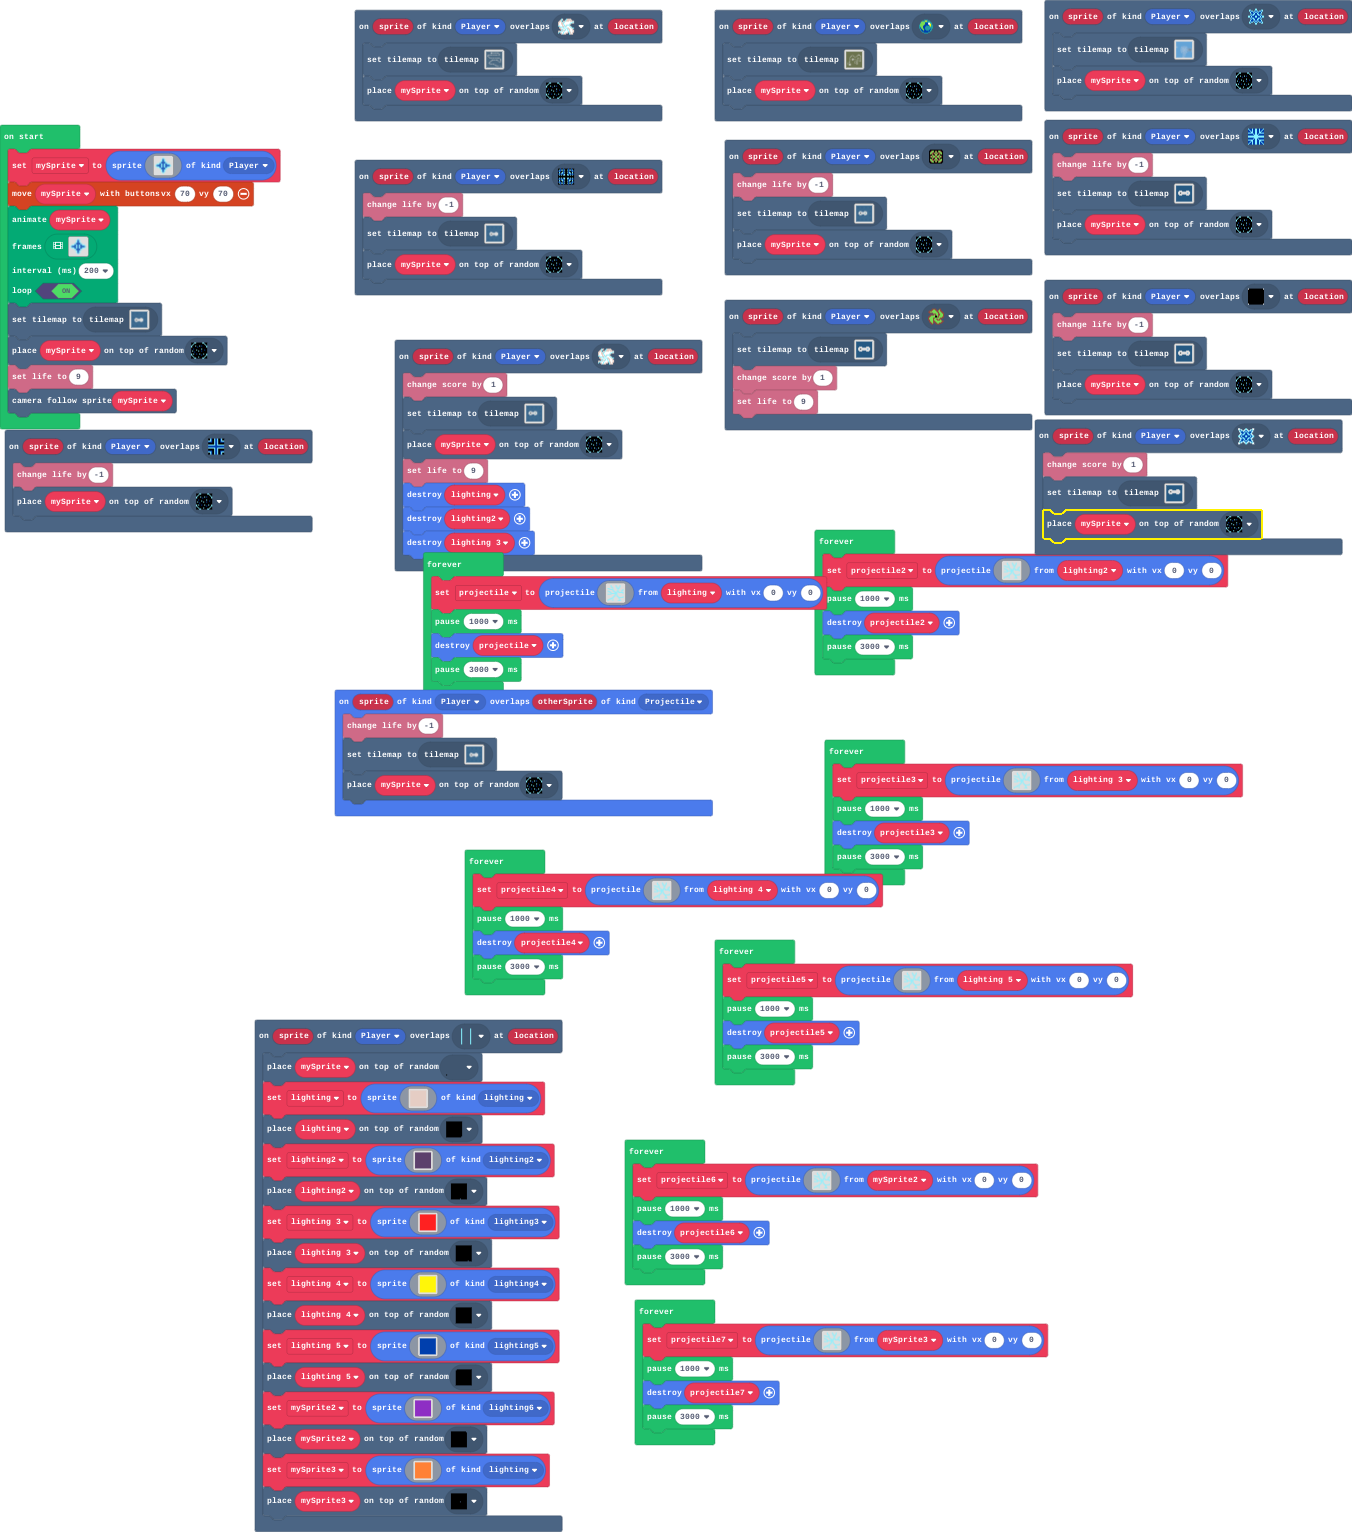
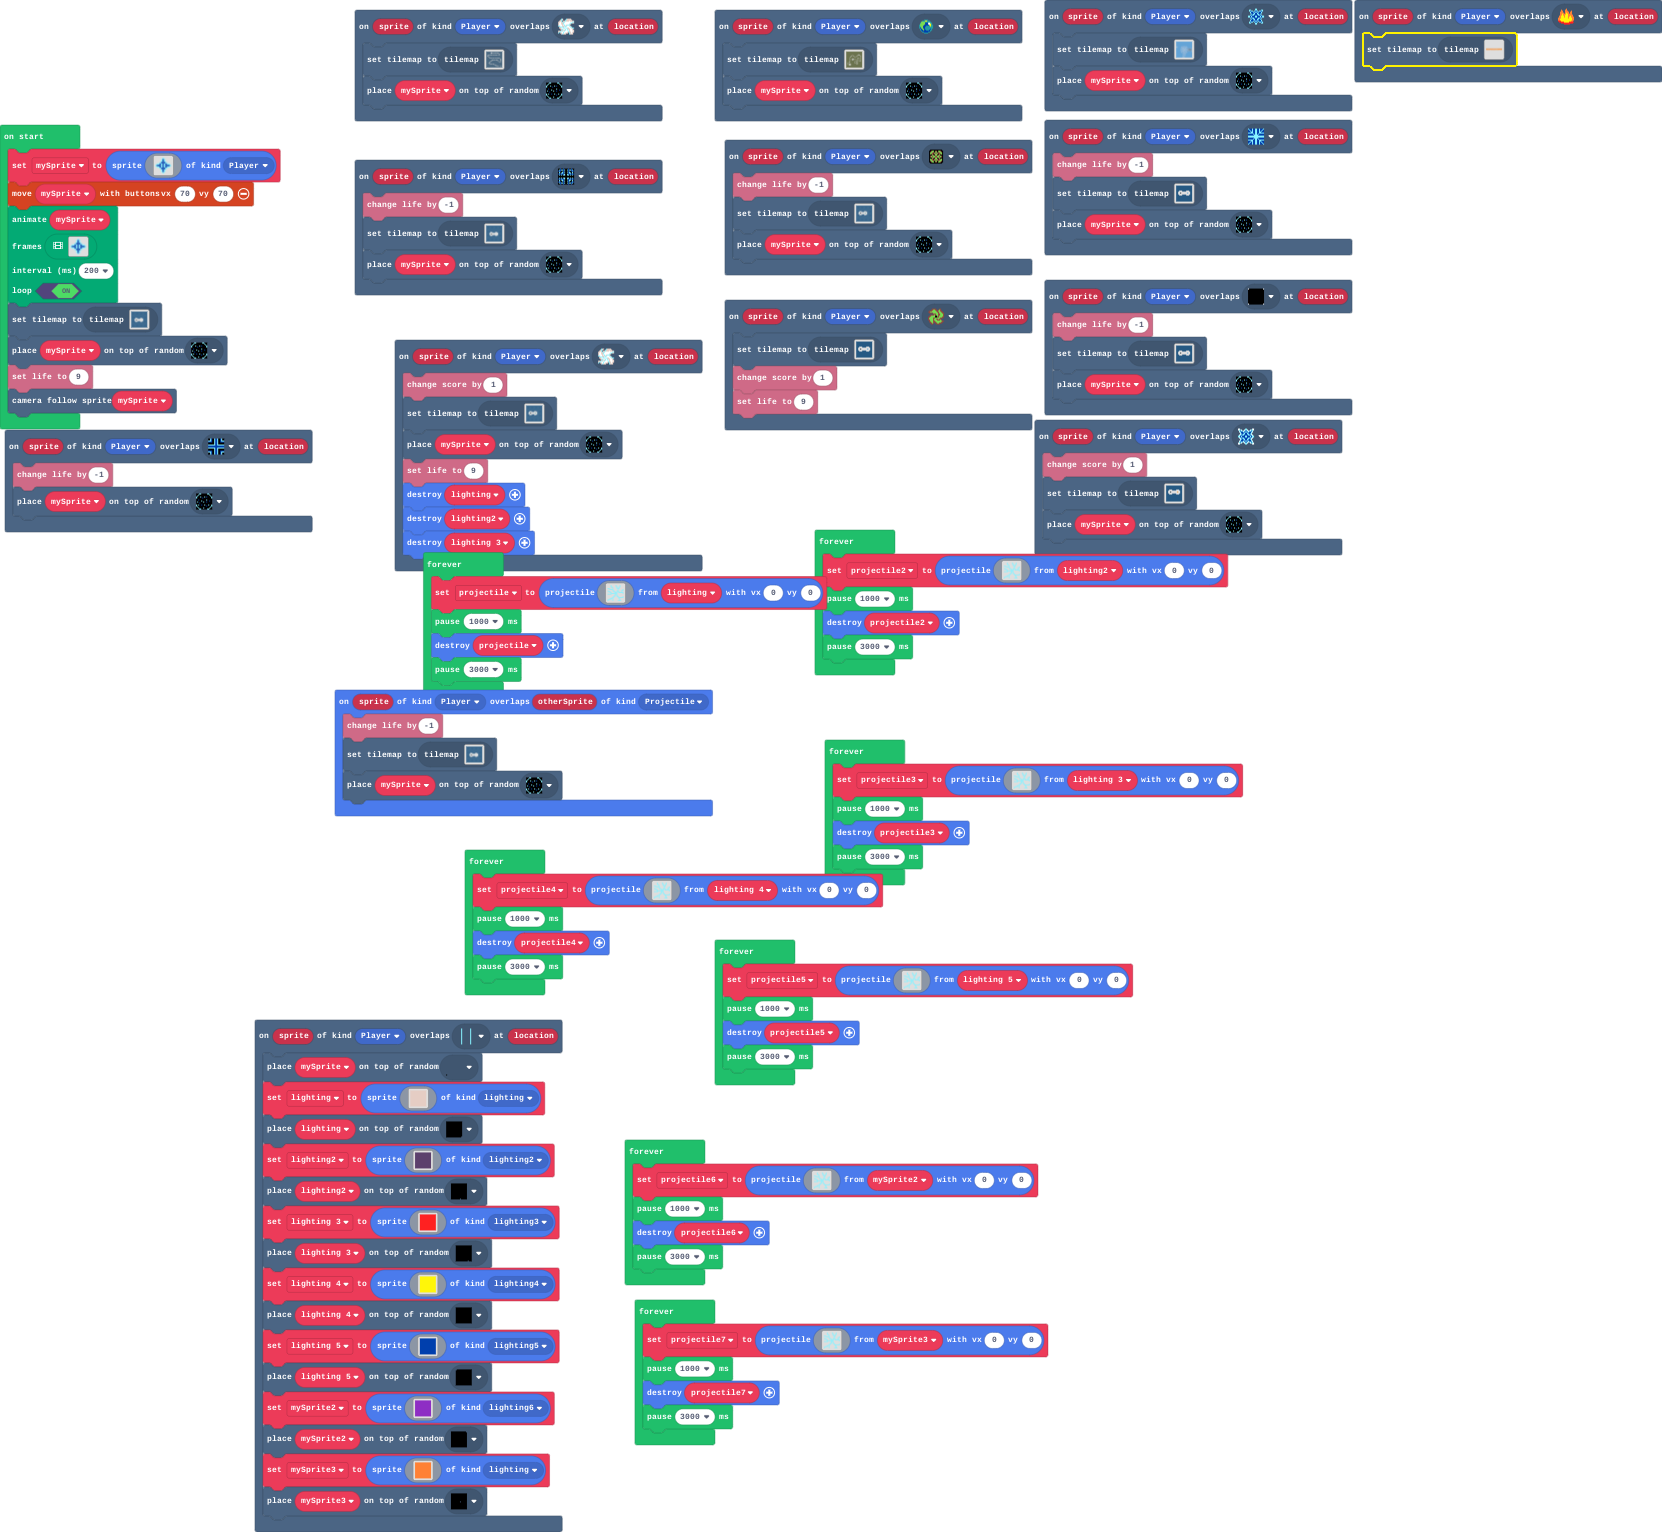
Update main.blocks, main.ts, tilemap.g.jres, tilemap.g.ts

diff --git a/tilemap.g.ts b/tilemap.g.ts
@@ -46,6 +46,14 @@ namespace myTiles {
     export const tile21 = image.ofBuffer(hex``);
     //% fixedInstance jres blockIdentity=images._tile
     export const tile22 = image.ofBuffer(hex``);
+    //% fixedInstance jres blockIdentity=images._tile
+    export const tile24 = image.ofBuffer(hex``);
+    //% fixedInstance jres blockIdentity=images._tile
+    export const tile25 = image.ofBuffer(hex``);
+    //% fixedInstance jres blockIdentity=images._tile
+    export const tile23 = image.ofBuffer(hex``);
+    //% fixedInstance jres blockIdentity=images._tile
+    export const tile26 = image.ofBuffer(hex``);
 
     helpers._registerFactory("tilemap", function(name: string) {
         switch(helpers.stringTrim(name)) {
@@ -408,7 +416,7 @@ namespace myTiles {
 . . . . . . . . . . . . . . . . 
 `, [myTiles.transparency16], TileScale.Sixteen);
             case "level12":
-            case "level12":return tiles.createTilemap(hex`1000100001010101010101010101010101010101010101010101010101010101010101010101010101010101010101010101010101010101010101010101010101010101010101000000010101010000000101010101000000000000000000000000010101010000020000000000000000000101010100000000000000000000000001010101010000000101010100000001010101010101010101010101010101010101010101010101010101010101010101010101010101010101010101010101010101010101010101010101010101010101010101010101010101010101010101010101010101010101010101010101010101010101010101010101010101010101`, img`
+            case "level12":return tiles.createTilemap(hex`1000100001010101010101010101010101010101010101010101010101010101010101010101010101010101010101010101010101010101010101010101010101010101010101000000010101010000000101010101000000000000000000000000010101010000020000000000000300000101010100000000000000000000000001010101010000000101010100000001010101010101010101010101010101010101010101010101010101010101010101010101010101010101010101010101010101010101010101010101010101010101010101010101010101010101010101010101010101010101010101010101010101010101010101010101010101010101`, img`
 . . . . . . . . . . . . . . . . 
 . . . . . . . . . . . . . . . . 
 . . . . . . . . . . . . . . . . 
@@ -425,7 +433,30 @@ namespace myTiles {
 . . . . . . . . . . . . . . . . 
 . . . . . . . . . . . . . . . . 
 . . . . . . . . . . . . . . . . 
-`, [myTiles.transparency16,myTiles.tile1,myTiles.tile2], TileScale.Sixteen);
+`, [myTiles.transparency16,myTiles.tile1,myTiles.tile2,myTiles.tile23], TileScale.Sixteen);
+            case "level14":
[1 lines of base64/hex data omitted]
+...............................................................................................................................................................................................................................................................
+...............................................................................................................................................................................................................................................................
+...............................................................................................................................................................................................................................................................
+...............................................................................................................................................................................................................................................................
+...............................................................................................................................................................................................................................................................
+...............................................................................................................................................................................................................................................................
+...............................................................................................................................................................................................................................................................
+...............................................................................................................................................................................................................................................................
+...............................................................................................................................................................................................................................................................
+...............................................................................................................................................................................................................................................................
+...............................................................................................................................................................................................................................................................
+...............................................................................................................................................................................................................................................................
+...............................................................................................................................................................................................................................................................
+...............................................................................................................................................................................................................................................................
+...............................................................................................................................................................................................................................................................
+...............................................................................................................................................................................................................................................................
+...............................................................................................................................................................................................................................................................
+...............................................................................................................................................................................................................................................................
+...............................................................................................................................................................................................................................................................
+...............................................................................................................................................................................................................................................................
+`, [myTiles.transparency16,myTiles.tile2,myTiles.tile19,myTiles.tile23,myTiles.tile24,myTiles.tile25,myTiles.tile26], TileScale.Sixteen);
         }
         return null;
     })
@@ -477,6 +508,14 @@ namespace myTiles {
             case "tile21":return tile21;
             case "myTile20":
             case "tile22":return tile22;
+            case "myTile22":
+            case "tile24":return tile24;
+            case "myTile23":
+            case "tile25":return tile25;
+            case "myTile21":
+            case "tile23":return tile23;
+            case "myTile24":
+            case "tile26":return tile26;
         }
         return null;
     })

diff --git a/main.ts b/main.ts
@@ -42,6 +42,9 @@ scene.onOverlapTile(SpriteKind.Player, sprites.dungeon.collectibleBlueCrystal, f
     tiles.setCurrentTilemap(tilemap`level7`)
     tiles.placeOnRandomTile(mySprite, assets.tile`myTile0`)
 })
+scene.onOverlapTile(SpriteKind.Player, assets.tile`myTile21`, function (sprite, location) {
+    tiles.setCurrentTilemap(tilemap`level14`)
+})
 scene.onOverlapTile(SpriteKind.Player, assets.tile`myTile16`, function (sprite, location) {
     info.changeLifeBy(-1)
     tiles.setCurrentTilemap(tilemap`level9`)
